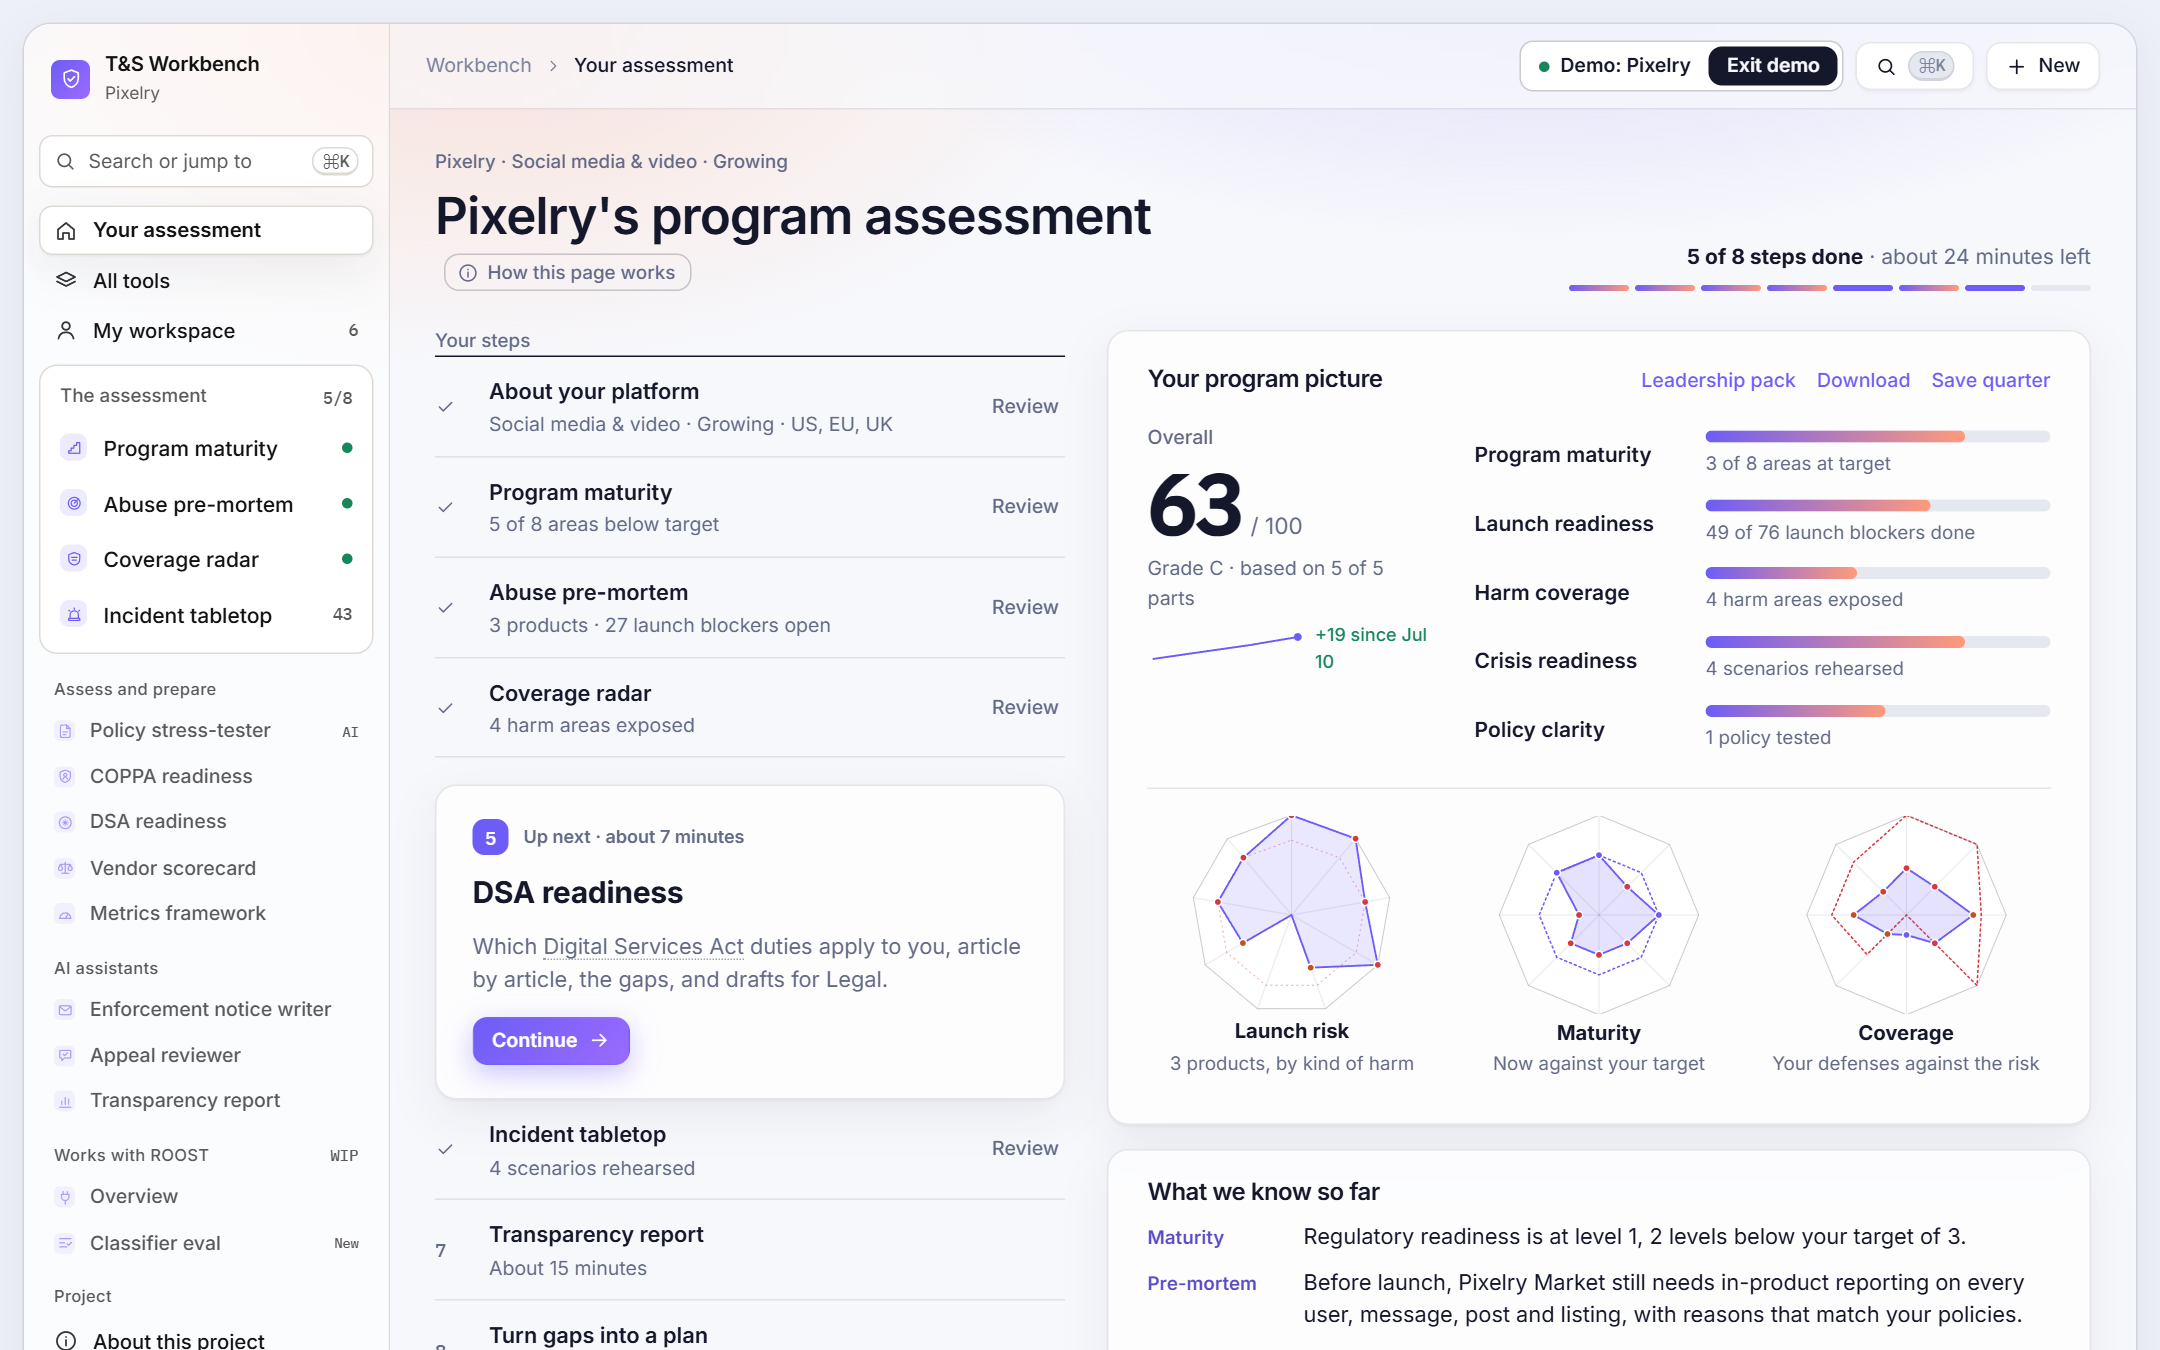
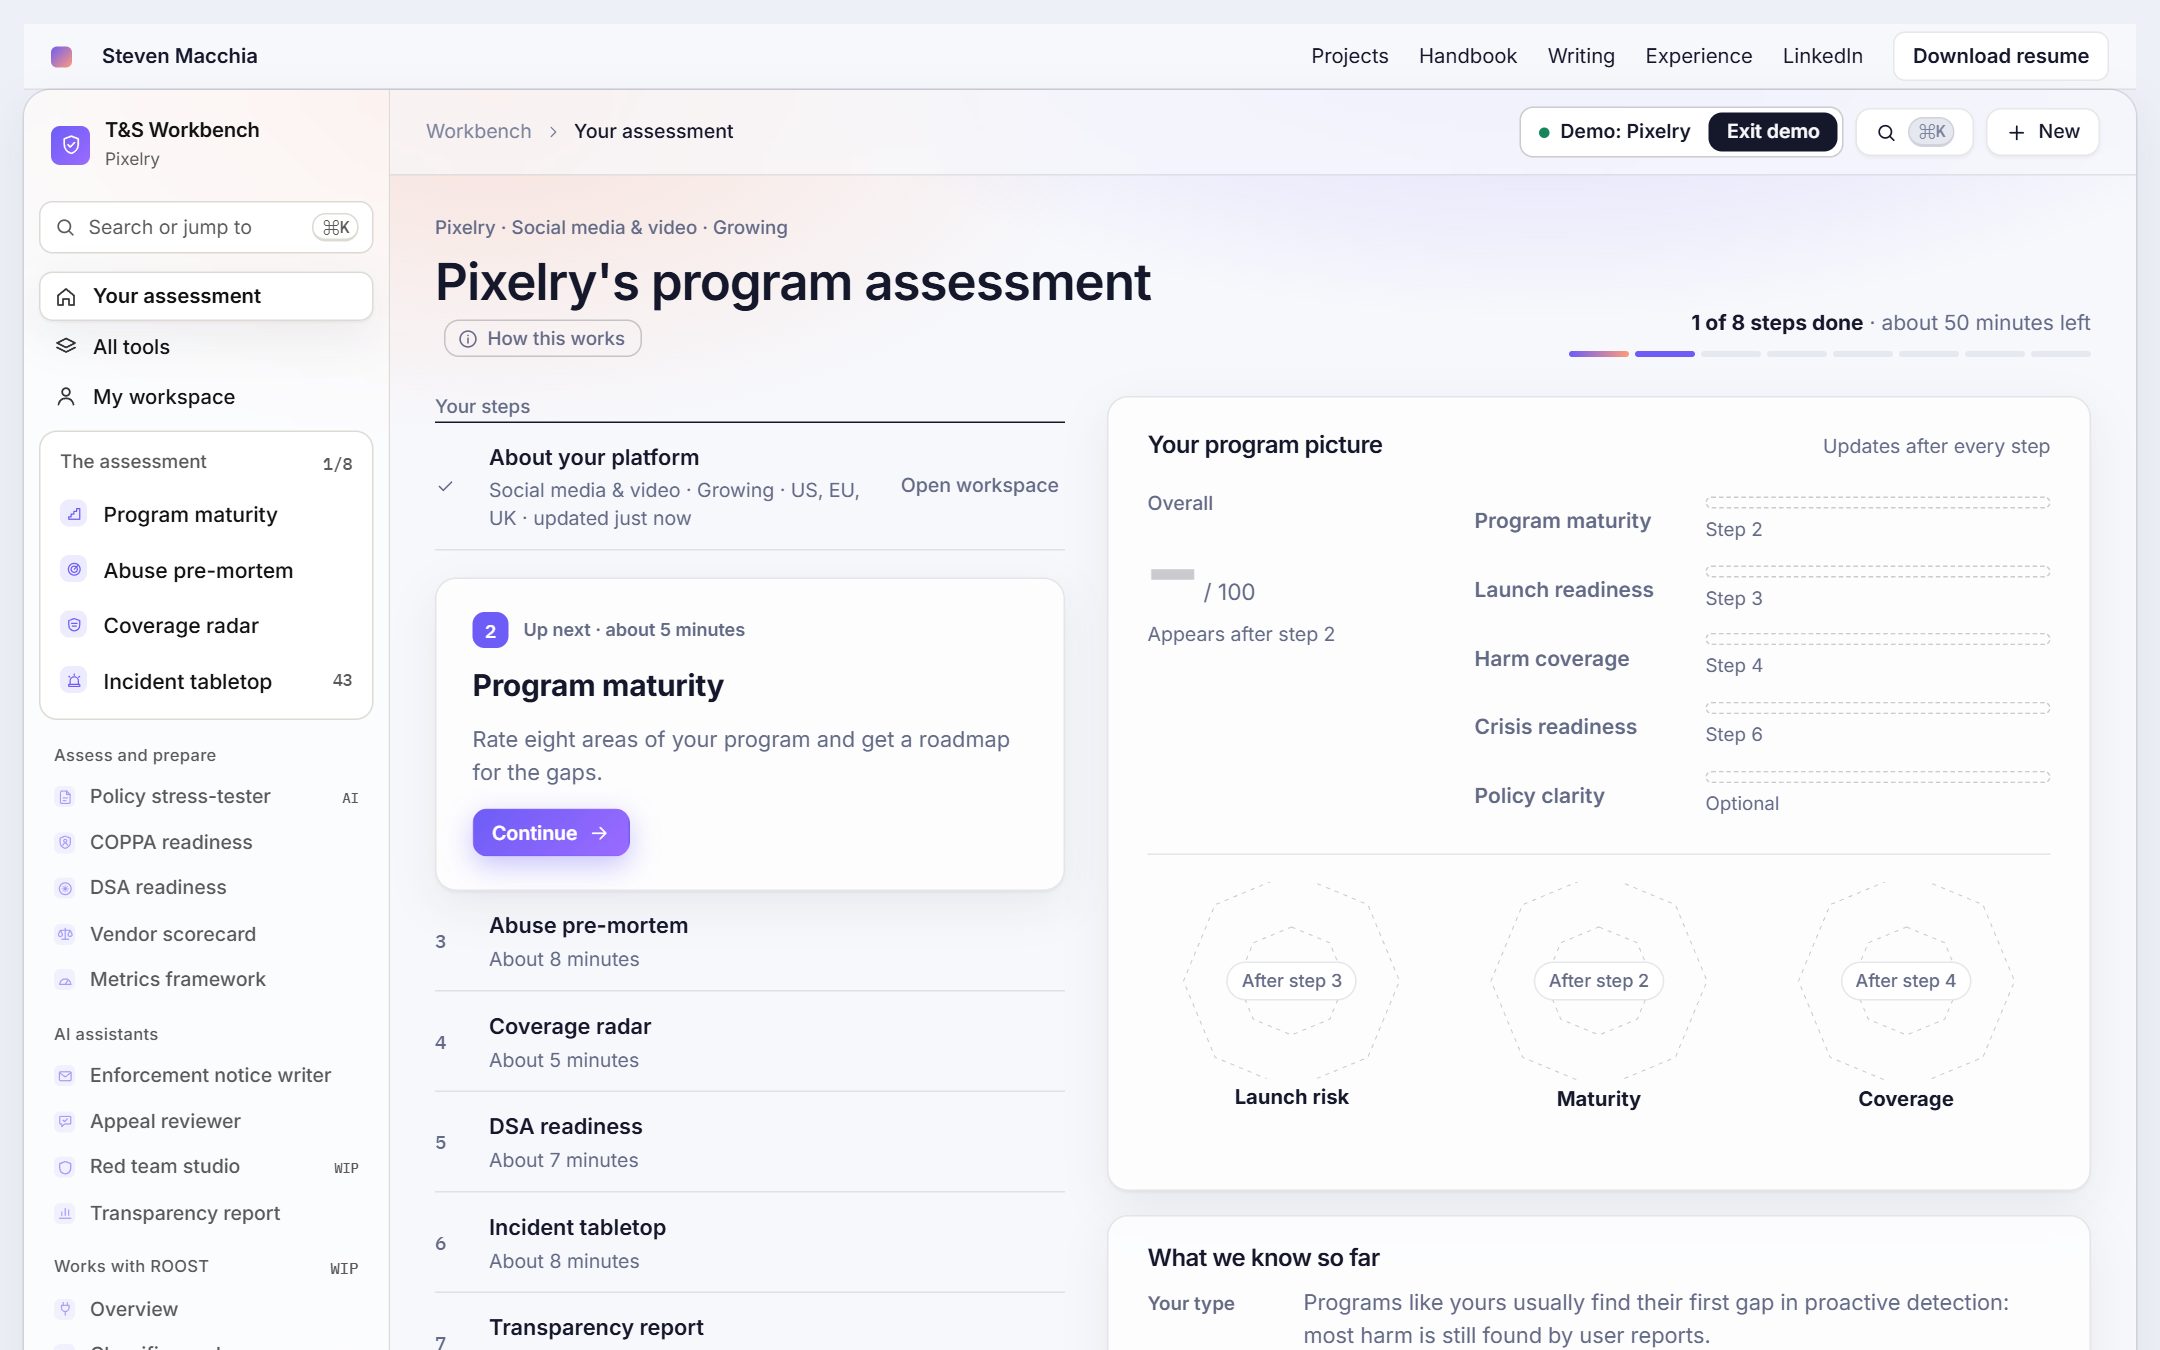
Screenshots retaken after the main merge; capture script marks tool intros seen
Main's per-route intro cards and the overview's first-run choice (both merged
in the previous commit) blocked several capture.js builders that didn't know
about them: premortem, tabletop, appeal, and the metrics one-pager timed out
waiting for selectors that sat behind the new intro screen. markIntrosSeen()
sets tswb:intro:<route> and tswb:firstrun:seen before the capture run, same as
a returning visitor would have, so every target captures its real first screen
again.

diff --git a/tools/screenshots/capture.js b/tools/screenshots/capture.js
@@ -103,6 +103,22 @@ async function settle(page) {
   await sleep(SETTLE_MS);
 }
 
+// Main's per-route intro cards (src/partINTRO.js) and the overview's first-run
+// choice (src/partH4.js) each gate a tool's real first screen behind a one-time
+// card ("tswb:intro:<route>" / "tswb:firstrun:seen"). None of the builders below
+// know about them, so mark every one seen up front; each builder's own
+// localStorage.removeItem calls only ever target their own tool's keys.
+const INTRO_ROUTES = [
+  "premortem", "tabletop", "maturity", "coverage", "metrics", "vendors", "policy",
+  "coppa", "dsa", "eval", "notice", "appeal", "transparency", "plan", "review", "workspace",
+];
+async function markIntrosSeen(page) {
+  await page.evaluate((routes) => {
+    routes.forEach((r) => localStorage.setItem("tswb:intro:" + r, "true"));
+    localStorage.setItem("tswb:firstrun:seen", "true");
+  }, INTRO_ROUTES);
+}
+
 async function gotoHash(page, hash) {
   await page.evaluate((h) => {
     location.hash = h;
@@ -638,6 +654,7 @@ async function runReviewPass(browser, kind) {
     });
   });
   await page.goto(BASE_URL + "/", { waitUntil: "load" });
+  await markIntrosSeen(page);
   if (kind === "dark") {
     await page.evaluate(() => localStorage.setItem("tswb:theme", JSON.stringify("dark")));
     await page.reload({ waitUntil: "load" });
@@ -733,6 +750,7 @@ async function main() {
       });
     });
     await page.goto(BASE_URL + "/", { waitUntil: "load" });
+    await markIntrosSeen(page);
     await settle(page);
 
     for (const t of list) {
